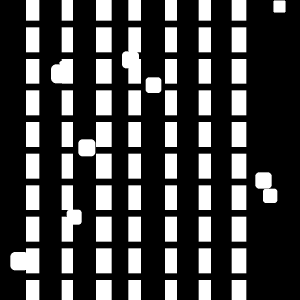
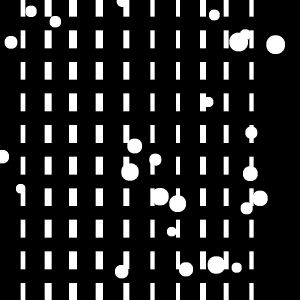
add TSP

diff --git a/new_environment.py b/new_environment.py
@@ -1,7 +1,4 @@
-from itertools import count
-from operator import truediv
 from pickletools import uint8
-from re import X
 import time
 from turtle import heading
 from typing import List, Tuple, Union
@@ -12,6 +9,7 @@ import pygame
 import random
 from math import sin, cos, atan, atan2, pi, sqrt
 from astar import AStarPlanner
+from travellingSalseman import TravellingSalsemanProblem
 
 HEIGHT = 900
 WIDTH = 900
@@ -121,9 +119,14 @@ class World:
         self.numCropRows = numCropRows
         self.cropsPerRow = cropsPerRow
         self.numWeeds = numWeeds
+
+        self.weed_xs = [0] * numWeeds
+        self.weed_ys = [0] * numWeeds
+        self.weed_sizes = [0] * numWeeds
+
         for i in range(numTrees):
-            x_pos = random.randint(0, width)
-            y_pos = random.randint(0, height)
+            x_pos = random.randint(0, width-40)
+            y_pos = random.randint(0, height-40)
             tree_radius = random.randint(10, 25)
             self.tree_xs.append(x_pos)
             self.tree_ys.append(y_pos)
@@ -138,15 +141,17 @@ class World:
             self.prev_crop_width = self.cropRow_widths[i-1]
             self.prev_crop_x = x_pos
             self.crop_xs.append(x_pos)
-        for i in range(numWeeds):
-            x_pos = random.randint(0, width)
-            y_pos = random.randint(0, height)
-            weed_radius = random.randint(5, 15)
-            self.weed_xs.append(x_pos)
-            self.weed_ys.append(y_pos)
-            self.weed_sizes.append(weed_radius)
+        # for i in range(numWeeds):
+        #     x_pos = random.randint(0, width)
+        #     y_pos = random.randint(0, height)
+        #     weed_radius = random.randint(5, 15)
+        #     self.weed_xs.append(x_pos)
+        #     self.weed_ys.append(y_pos)
+        #     self.weed_sizes.append(weed_radius)
+
         self.vert_crop_spacing = self.height/((self.cropsPerRow*2)-1)
-        print(self.vert_crop_spacing)
+        # print(self.vert_crop_spacing)
+
         for i in range((cropsPerRow*2)+1):
             # print(i)
             if i == 0:
@@ -158,6 +163,23 @@ class World:
                 y_pos = (i-1) * self.vert_crop_spacing
 
 
+    def plant_weeds(self) -> None:
+        obs_map = cv2.imread("output_dilated.png", cv2.IMREAD_GRAYSCALE)
+        obs_map = cv2.resize(obs_map, (HEIGHT, WIDTH), interpolation=cv2.INTER_AREA)
+        obs_idx = np.argwhere(obs_map == 0)
+        ox = np.array(obs_idx[:,0])
+        oy = np.array(obs_idx[:,1])
+        self.weed_xs = []
+        self.weed_ys = []
+        self.weed_sizes = []
+        for i in range(self.numWeeds):
+            x_pos = random.randint(0, len(ox))
+            y_pos = random.randint(0, len(oy))
+            weed_radius = random.randint(5, 15)
+            self.weed_xs.append(ox[x_pos])
+            self.weed_ys.append(oy[y_pos])
+            self.weed_sizes.append(weed_radius)
+
 class Planner:
 
     trajectory = []
@@ -168,20 +190,17 @@ class Planner:
     
     def get_path(self, start: Tuple[int, int], goal: Tuple[int, int]):
         obs = self.world.world_array
-        # obs[1:10, 1:10] = 255
+        obs[obs > 0] = 255
         
-        obs_idx = np.argwhere(obs == 255)
+        obs_idx = np.argwhere(obs > 0)
         ox = np.array(obs_idx[:,0])
         oy = np.array(obs_idx[:,1])
         obs_map = obs
-
-        
-
         
         astar = AStarPlanner(ox, oy, obs_map)
         rx, ry = astar.planning(start[0], start[1], goal[0], goal[1])
-        obs[rx, ry] = 255
-        x = HEIGHT//300
+        # obs[rx, ry] = 255
+        x = HEIGHT/300
         # print("RX: ",rx)
         self.trajectory = np.flip(np.vstack((ry*x, rx*x)).T, axis=0)
         # self.trajectory = np.flip(np.vstack((rx*x, ry*x)).T, axis=0)
@@ -212,8 +231,7 @@ class Visualizer:
         self.font = pygame.font.SysFont('freesansbolf.tff', 30)
     
     def display_robot(self):
-        angle = 0
-
+        
         all_points = self.robot.get_robot_points()
         
         # plot chassis
@@ -286,7 +304,7 @@ class Visualizer:
 
         self.display_world()
 
-        self.display_trajectory()
+        # self.display_trajectory()
 
         if counter < 1:
             self.screen.fill(self.WHITE)
@@ -294,18 +312,19 @@ class Visualizer:
             pygame.image.save(self.screen, 'output.png')
             img = cv2.threshold(255-cv2.imread('output.png',cv2.IMREAD_GRAYSCALE), 50, 255, cv2.THRESH_BINARY)[1]
             img_resize = cv2.resize(img, (300, 300), interpolation=cv2.INTER_AREA)
-            kernel = np.ones((5,5), np.uint8)
+            kernel = np.ones((3,3), np.uint8)
             self.world.world_array = cv2.dilate(img_resize, kernel, iterations=1)
             cv2.imwrite('output_dilated.png', self.world.world_array)
             # cv2.imshow('world', self.world.world_array)
             # cv2.waitKey()
             # cv2.destroyAllWindows()
 
-        if counter > 5:
+        if counter > 1:
             self.display_robot()
+            self.display_trajectory()
 
         for i in range(len(self.robot.visited)-1):
-            pygame.draw.line(self.screen, self.BLUE, self.robot.visited[i], self.robot.visited[i+1], 1)
+            pygame.draw.line(self.screen, self.BLUE, self.robot.visited[i], self.robot.visited[i+1], 3)
 
         for event in pygame.event.get():
             # Keypress
@@ -334,24 +353,36 @@ class Runner:
         running = True
         counter = 0
         weeds_destroyed = 0
+        trajectoryTotal = []
 
         while running:
             running = self.vis.update_display(counter)
-            
+            # self.world.plant_weeds()
+
             if counter == 0:
+                self.world.plant_weeds()
+                path_idx = TravellingSalsemanProblem(self.world.weed_xs, self.world.weed_ys)
                 # self.planner.get_path((290, 290), (0, 0))
                 # trajectoryTotal = self.planner.trajectory
                 # self.planner.trajectoryTotal = trajectoryTotal
-                for j in range(0,len(self.world.weed_xs)):
-                    if j == 0:
-                        self.planner.get_path((290, 290), (self.world.weed_ys[j]/3, self.world.weed_xs[j]/3))
+                # for j in range(0,len(self.world.weed_xs)):
+                #     if j == 0:
+                #         self.planner.get_path((290, 290), (self.world.weed_ys[j]/3, self.world.weed_xs[j]/3))
+                #         trajectoryTotal = self.planner.trajectory
+                #         self.planner.trajectoryTotal = trajectoryTotal
+                #     else:
+                #         self.planner.get_path((self.world.weed_ys[j-1]/3, self.world.weed_xs[j-1]/3), (self.world.weed_ys[j]/3, self.world.weed_xs[j]/3))
+                #         trajectoryTotal = np.vstack([trajectoryTotal, self.planner.trajectory])
+                #         self.planner.trajectoryTotal = trajectoryTotal
+                for j in range(len(self.world.weed_xs)-1):
+                    self.planner.get_path((self.world.weed_ys[path_idx[j]]/3, self.world.weed_xs[path_idx[j]]/3), (self.world.weed_ys[path_idx[j+1]]/3, self.world.weed_xs[path_idx[j+1]]/3))
+                    if len(trajectoryTotal) == 0:
                         trajectoryTotal = self.planner.trajectory
-                        self.planner.trajectoryTotal = trajectoryTotal
                     else:
-                        self.planner.get_path((self.world.weed_ys[j-1]/3, self.world.weed_xs[j-1]/3), (self.world.weed_ys[j]/3, self.world.weed_xs[j]/3))
                         trajectoryTotal = np.vstack([trajectoryTotal, self.planner.trajectory])
-                        self.planner.trajectoryTotal = trajectoryTotal
-                # print(trajectoryTotal)
+                    self.planner.trajectoryTotal = trajectoryTotal
+                print("All paths calculated")
+                time.sleep(2)
                 # print(len(self.planner.trajectory))
             
 
@@ -373,18 +404,18 @@ class Runner:
                 # print(len(self.robot.visited))
 
             counter += 1
-            time.sleep(0.05)
+            time.sleep(0.01)
         
 
 def main():
     height = HEIGHT
     width = WIDTH
-    numTrees = 3
+    numTrees = 25
     #numCropRows = 7
     #cropsPerRow = 10
-    numCropRows = 5
+    numCropRows = 10
     cropsPerRow = 10
-    numWeeds = 3
+    numWeeds = 7
 
     robot = Robot(500,500)
     world = World(width, height, numTrees, numCropRows, cropsPerRow, numWeeds)

diff --git a/holonomic.py b/holonomic.py
@@ -98,7 +98,8 @@ class Robot:
             x_wheel = self.points[i+4][0]
             y_wheel = HEIGHT-self.points[i+4][1]
 
-            self.wheel[i] = atan2(y_wheel-y, x_wheel-x) * 180/pi + 90
+            self.wheel[i] = atan2(y_wheel-y, x_wheel-x) * 180/pi + 90 - self.angle
+            # self.wheel[i] = atan2(y_wheel-y, x_wheel-x) * 180/pi - self.angle
             # print(self.wheel[i])
 
         r = sqrt((x - self.x_coord)**2 + (y - self.y_coord)**2)
@@ -161,15 +162,16 @@ class World:
             self.prev_crop_width = self.cropRow_widths[i-1]
             self.prev_crop_x = x_pos
             self.crop_xs.append(x_pos)
-        for i in range(numWeeds):
-            x_pos = random.randint(0, width)
-            y_pos = random.randint(0, height)
+        for i in range(self.numWeeds):
+            x_pos = random.randint(0, height)
+            y_pos = random.randint(0, width)
             weed_radius = random.randint(5, 15)
             self.weed_xs.append(x_pos)
             self.weed_ys.append(y_pos)
             self.weed_sizes.append(weed_radius)
+
         self.vert_crop_spacing = self.height/((self.cropsPerRow*2)-1)
-        print(self.vert_crop_spacing)
+        # print(self.vert_crop_spacing)
         for i in range((cropsPerRow*2)+1):
             # print(i)
             if i == 0:
@@ -179,6 +181,19 @@ class World:
                 self.crop_space_ys.append(y_pos)
             else:
                 y_pos = (i-1) * self.vert_crop_spacing
+        
+    def plant_weeds(self) -> None:
+        obs_map = cv2.imread("output_dilated.png", cv2.IMREAD_GRAYSCALE)
+        obs_idx = np.argwhere(obs_map == 0)
+        ox = np.array(obs_idx[:,0])
+        oy = np.array(obs_idx[:,1])
+        for i in range(self.numWeeds):
+            x_pos = random.randint(0, len(ox))
+            y_pos = random.randint(0, len(oy))
+            weed_radius = random.randint(5, 15)
+            self.weed_xs.append(ox[x_pos]*3)
+            self.weed_ys.append(oy[y_pos]*3)
+            self.weed_sizes.append(weed_radius)
 
 
 class Planner:
@@ -345,6 +360,7 @@ class Runner:
             self.robot.points = self.robot.get_robot_points()
             
             self.robot.leg[:] += 1
+            self.robot.angle += 2
             
             if counter < 1000:
                 point = (450, HEIGHT-450)

diff --git a/travellingSalseman.py b/travellingSalseman.py
@@ -1,0 +1,30 @@
+import six
+import sys
+sys.modules['sklearn.externals.six'] = six
+
+import mlrose
+
+import numpy as np
+
+
+def TravellingSalsemanProblem(x, y):
+
+    # Create list of city coordinates
+    coords_list = []
+    for i in range(len(x)):
+        coords_list.append([x[i],y[i]])
+
+    # Initialize fitness function object using coords_list
+    fitness_coords = mlrose.TravellingSales(coords = coords_list)
+
+    problem_fit = mlrose.TSPOpt(length = len(x), fitness_fn = fitness_coords,
+                                maximize=False)
+
+    best_state, best_fitness = mlrose.genetic_alg(problem_fit, random_state = 2)
+
+    print('The best state found is: ', best_state)
+
+    # print('The fitness at the best state is: ', best_fitness)
+
+    return best_state
+

diff --git a/astar.py b/astar.py
@@ -76,6 +76,8 @@ class AStarPlanner:
         while 1:
             if len(open_set) == 0:
                 print("Open set is empty..")
+                rx = gx
+                ry = gy
                 break
 
             c_id = min(
